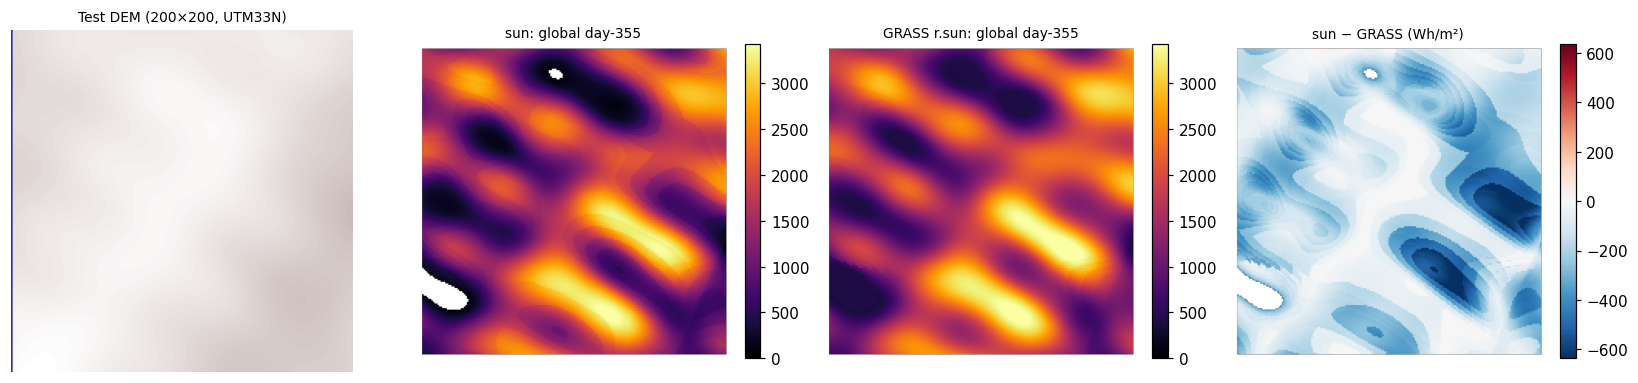
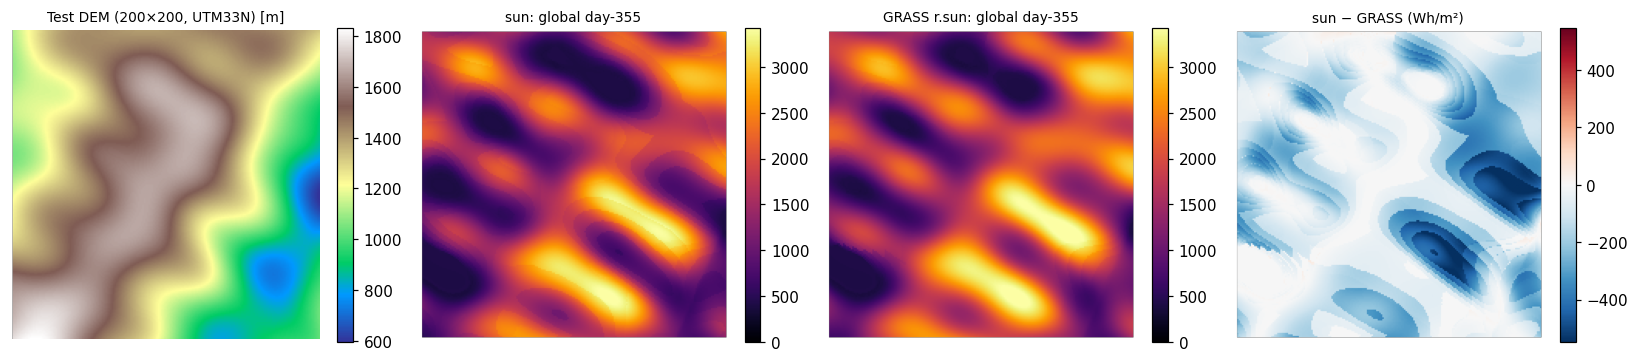
validation: regenerate figures with engine 0.1.1 (no nodata holes on north slopes); add make_figures.py

diff --git a/validation/make_figures.py b/validation/make_figures.py
@@ -1,0 +1,131 @@
+"""Regenerate the validation figures (maps.png, wall_profile.png).
+
+Needs the GRASS reference outputs from grass_reference.sh in
+/tmp/sun_vs_grass/grass_out and the installed engine
+(pip install sun-solar-radiation).
+"""
+from pathlib import Path
+
+import matplotlib
+import numpy as np
+from osgeo import gdal, osr
+
+import sun
+
+matplotlib.use("Agg")
+import matplotlib.pyplot as plt  # noqa: E402
+
+gdal.UseExceptions()
+OUT_DIR = Path(__file__).resolve().parent
+WORK = Path("/tmp/sun_vs_grass")
+UNDEF = -9999.0
+
+
+def read(p):
+    ds = gdal.Open(str(p))
+    a = ds.GetRasterBand(1).ReadAsArray().astype(np.float64)
+    ds = None
+    return a
+
+
+def flat(a):
+    return np.ascontiguousarray(np.nan_to_num(a, nan=UNDEF).astype(np.float32)).ravel()
+
+
+def masked(a):
+    a = a.copy()
+    a[(a == UNDEF) | ~np.isfinite(a)] = np.nan
+    return a
+
+
+def row_latitudes(path):
+    ds = gdal.Open(str(path))
+    gt, wkt = ds.GetGeoTransform(), ds.GetProjection()
+    nrows, ncols = ds.RasterYSize, ds.RasterXSize
+    ds = None
+    src = osr.SpatialReference()
+    src.ImportFromWkt(wkt)
+    src.SetAxisMappingStrategy(osr.OAMS_TRADITIONAL_GIS_ORDER)
+    dst = osr.SpatialReference()
+    dst.ImportFromEPSG(4326)
+    dst.SetAxisMappingStrategy(osr.OAMS_TRADITIONAL_GIS_ORDER)
+    tr = osr.CoordinateTransformation(src, dst)
+    x_c = gt[0] + (ncols / 2.0) * gt[1]
+    lats = [tr.TransformPoint(x_c, gt[3] + (r + 0.5) * gt[5])[1] for r in range(nrows)]
+    return np.array(lats, dtype=np.float32), nrows, ncols
+
+
+def glob(dem, slope, aspect, lats, nrows, ncols, day):
+    out = sun.compute_raster_bands(
+        elevation=flat(dem), ncols=ncols, nrows=nrows, row_lat=lats, day=day, step=0.5,
+        linke_value=3.0, albedo_value=0.2, dx_m=30.0, dy_m=30.0,
+        slope=flat(slope), aspect=flat(aspect), outputs=["glob"], gpu=False,
+        row_offset=0, full_nrows=nrows, quiet=True,
+    )
+    return np.asarray(out["glob"]).reshape(nrows, ncols)
+
+
+# ── rough-terrain maps, day 355 ───────────────────────────────────────────
+lats, nrows, ncols = row_latitudes(WORK / "dem.tif")
+dem = read(WORK / "dem.tif")
+mine = glob(dem, read(WORK / "grass_out/slope.tif"), read(WORK / "grass_out/aspect.tif"),
+            lats, nrows, ncols, 355)
+grass = read(WORK / "grass_out/g355.tif")
+
+mn, gn = masked(mine), masked(grass)
+only_sun = np.isnan(mn) & ~np.isnan(gn)
+only_grass = ~np.isnan(mn) & np.isnan(gn)
+print(f"nodata only in sun: {int(only_sun.sum())}, only in GRASS: "
+      f"{int(only_grass.sum())}, in both: {int((np.isnan(mn) & np.isnan(gn)).sum())} "
+      f"(DEM nodata column + r.slope.aspect's undefined border ring)")
+
+fig = plt.figure(figsize=(15, 4.4), dpi=110)
+ax0 = fig.add_subplot(1, 4, 1)
+im0 = ax0.imshow(masked(dem), cmap="terrain")
+ax0.set_title("Test DEM (200×200, UTM33N) [m]", fontsize=9)
+ax0.axis("off")
+plt.colorbar(im0, ax=ax0, fraction=0.046)
+vmax = np.nanmax([np.nanpercentile(mn, 99), np.nanpercentile(gn, 99)])
+for i, (arr, title) in enumerate(((mn, "sun: global day-355"),
+                                  (gn, "GRASS r.sun: global day-355")), start=2):
+    ax = fig.add_subplot(1, 4, i)
+    im = ax.imshow(arr, cmap="inferno", vmin=0, vmax=vmax)
+    ax.set_title(title, fontsize=9)
+    ax.axis("off")
+    plt.colorbar(im, ax=ax, fraction=0.046)
+d = mn - gn
+dv = np.nanpercentile(np.abs(d), 99)
+ax3 = fig.add_subplot(1, 4, 4)
+im3 = ax3.imshow(d, cmap="RdBu_r", vmin=-dv, vmax=dv)
+ax3.set_title("sun − GRASS (Wh/m²)", fontsize=9)
+ax3.axis("off")
+plt.colorbar(im3, ax=ax3, fraction=0.046)
+plt.tight_layout()
+plt.savefig(OUT_DIR / "maps.png", bbox_inches="tight")
+plt.close()
+
+# ── controlled wall shadow profile, day 355 ───────────────────────────────
+wlats, wrows, wcols = row_latitudes(WORK / "wall.tif")
+wmine = glob(read(WORK / "wall.tif"), read(WORK / "grass_out/wall_s.tif"),
+             read(WORK / "grass_out/wall_a.tif"), wlats, wrows, wcols, 355)
+wg_sh = read(WORK / "grass_out/wglob_sh.tif")
+wg_ns = read(WORK / "grass_out/wglob_ns.tif")
+
+col, rows = 100, np.arange(30, 152)
+fig2, ax = plt.subplots(figsize=(7.5, 4.4), dpi=110)
+ax.plot(rows, wg_ns[rows, col], "k--", lw=1.4, label="GRASS no-shadow (reference)")
+ax.plot(rows, wg_sh[rows, col], "C1-", lw=1.8, label="GRASS r.sun (shadow on)")
+ax.plot(rows, masked(wmine)[rows, col], "C0-", lw=1.8, label="sun (ray-march shadow)")
+ax.axvline(150, color="0.4", ls=":", lw=1)
+ax.text(150, 1560, " wall (1000 m)", fontsize=8, color="0.3", rotation=90, va="top")
+ax.set_xlabel("grid row (wall at 150, shadow falls north → lower rows)")
+ax.set_ylabel("global irradiation day-355 [Wh/m²/day]")
+ax.set_title("Controlled wall shadow: winter solstice, sun due south", fontsize=10)
+ax.legend(fontsize=8)
+ax.grid(alpha=0.25)
+ax.set_xlim(30, 152)
+ax.set_ylim(0, 1750)
+plt.tight_layout()
+plt.savefig(OUT_DIR / "wall_profile.png", bbox_inches="tight")
+plt.close()
+print(f"figures written to {OUT_DIR}")

diff --git a/validation/VALIDATION.md b/validation/VALIDATION.md
@@ -20,7 +20,8 @@ default (1367).
 
 Reproduce: `make_test_dem.py`, then `grass_reference.sh` (needs GRASS 8),
 then `compare_sun_grass.py`, `compare_tilted_plane.py`,
-`compare_wall_shadow.py`.
+`compare_wall_shadow.py`. `make_figures.py` regenerates `maps.png` and
+`wall_profile.png` with the installed engine.
 
 ## Results
 
